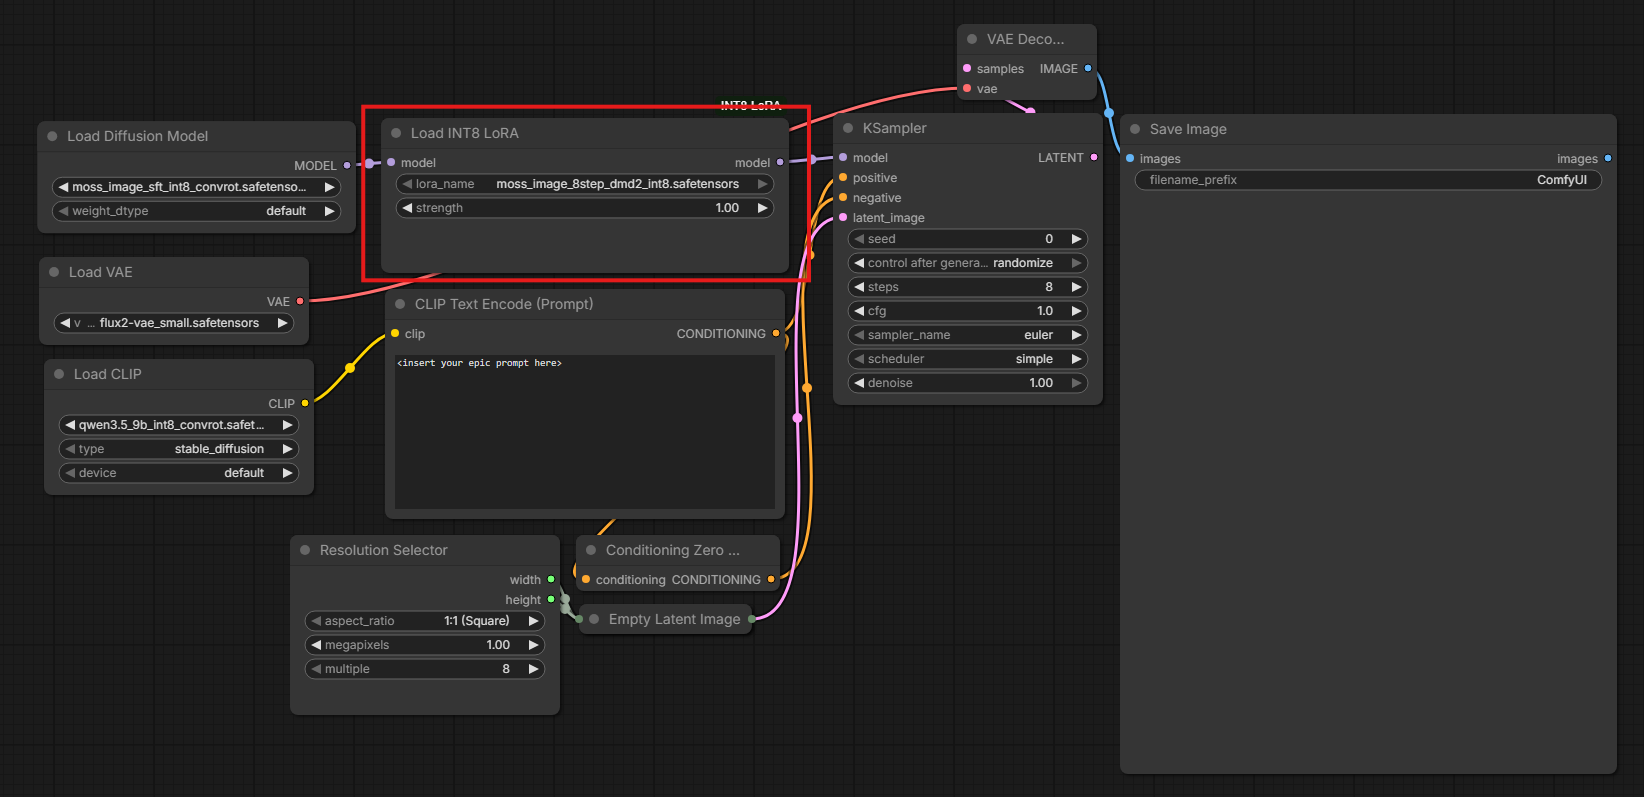
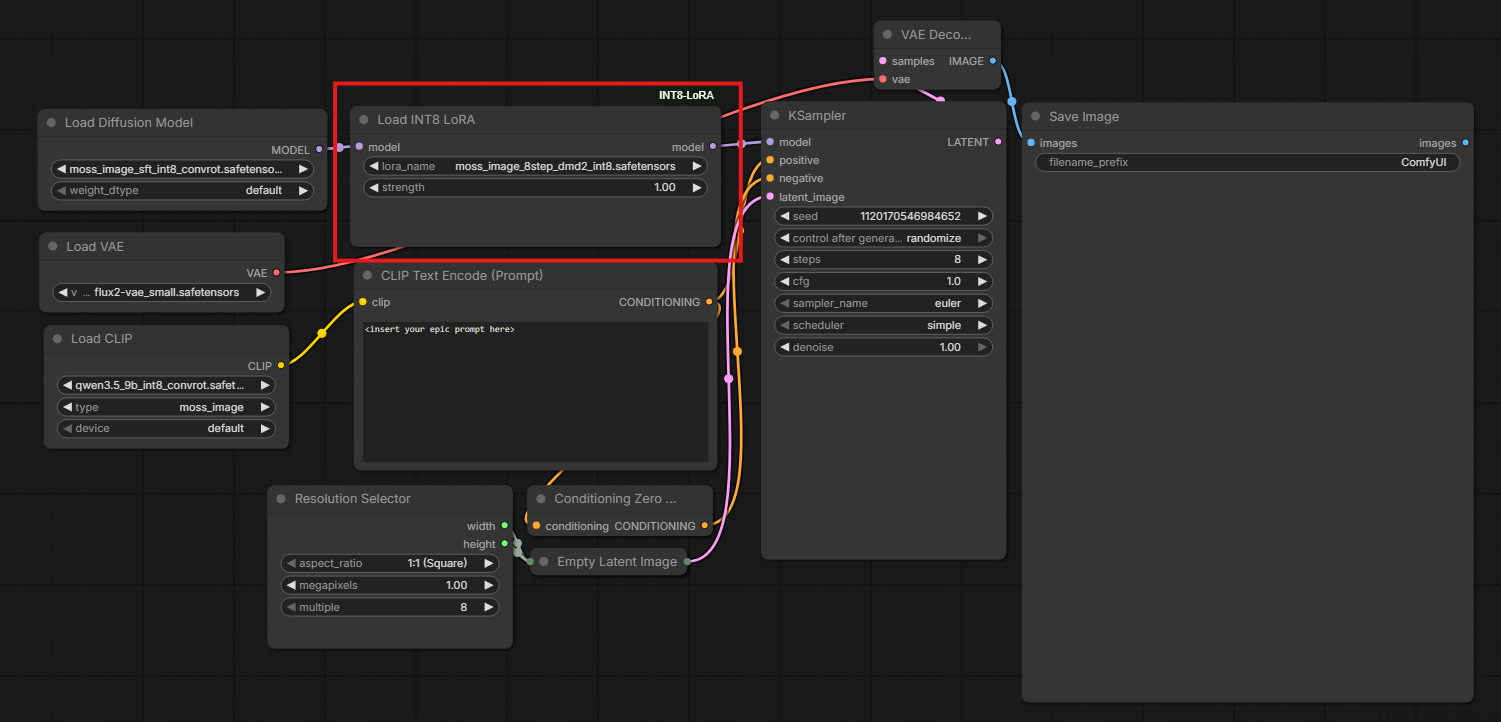
Add AI-assistance note and update workflow screenshot

diff --git a/README.md b/README.md
@@ -5,6 +5,11 @@ for bf16/fp16 LoRAs and about a quarter for fp32 LoRAs**. Files are dequantized
 in memory when loaded and applied through ComfyUI's normal LoRA path. Nothing in
 ComfyUI is monkeypatched.
 
+> **Heads up:** this node pack was written with AI assistance. I ran it on my own
+> MOSS and Anima LoRAs and compared generations, and it comes with a unit test
+> suite, but I can't promise it covers every setup. Please check results on your
+> own LoRAs and keep your originals.
+
 | Source dtype | Size after INT8 | Example (measured) |
 | --- | --- | --- |
 | fp32 | ~25% | 1134.0 MiB -> 283.7 MiB |
